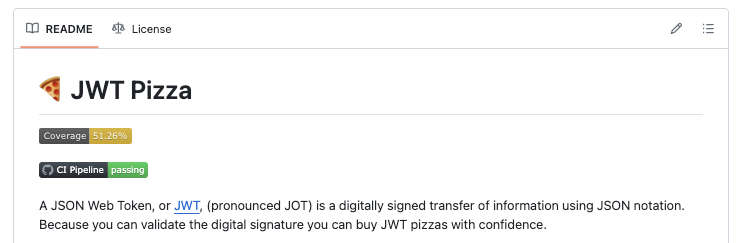
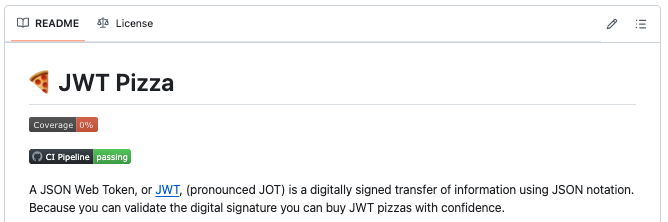
enhance(d2) badge image

diff --git a/instruction/deliverable2AutomatedDeploy/deliverable2AutomatedDeploy.md b/instruction/deliverable2AutomatedDeploy/deliverable2AutomatedDeploy.md
@@ -168,7 +168,7 @@ All you need to do copy the following Markdown, paste it in the README file, rep
 [![CI Pipeline](https://github.com/YOURACCOUNTNAMEHERE/jwt-pizza/actions/workflows/ci.yml/badge.svg)](https://github.com/YOURACCOUNTNAMEHERE/jwt-pizza/actions/workflows/ci.yml)
 ```
 
-Now whenever you pipeline runs you will be able to see the status in your repos home page on GitHub.
+Now whenever you pipeline runs you will be able to see the status in your repos home page on GitHub. Don't worry about the coverage reporting 0%. You will correct that in a future assignment.
 
 ![Pipeline status](pipelineStatus.png)
 
